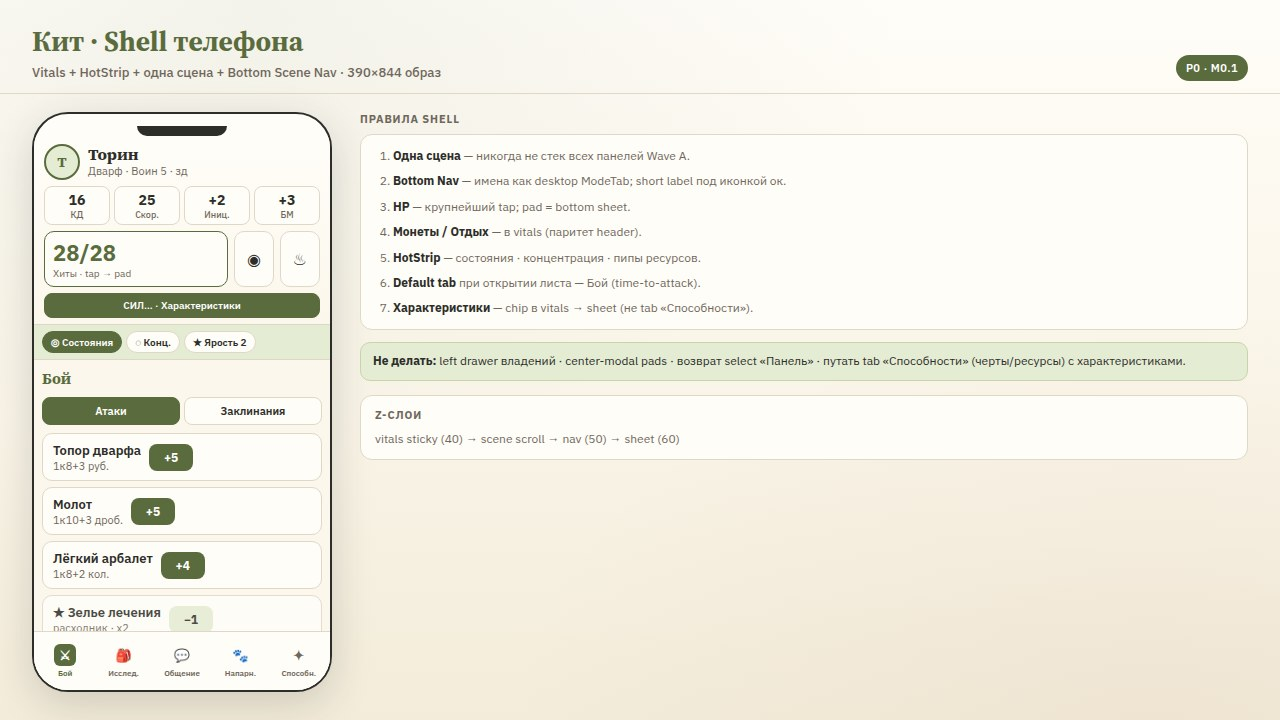
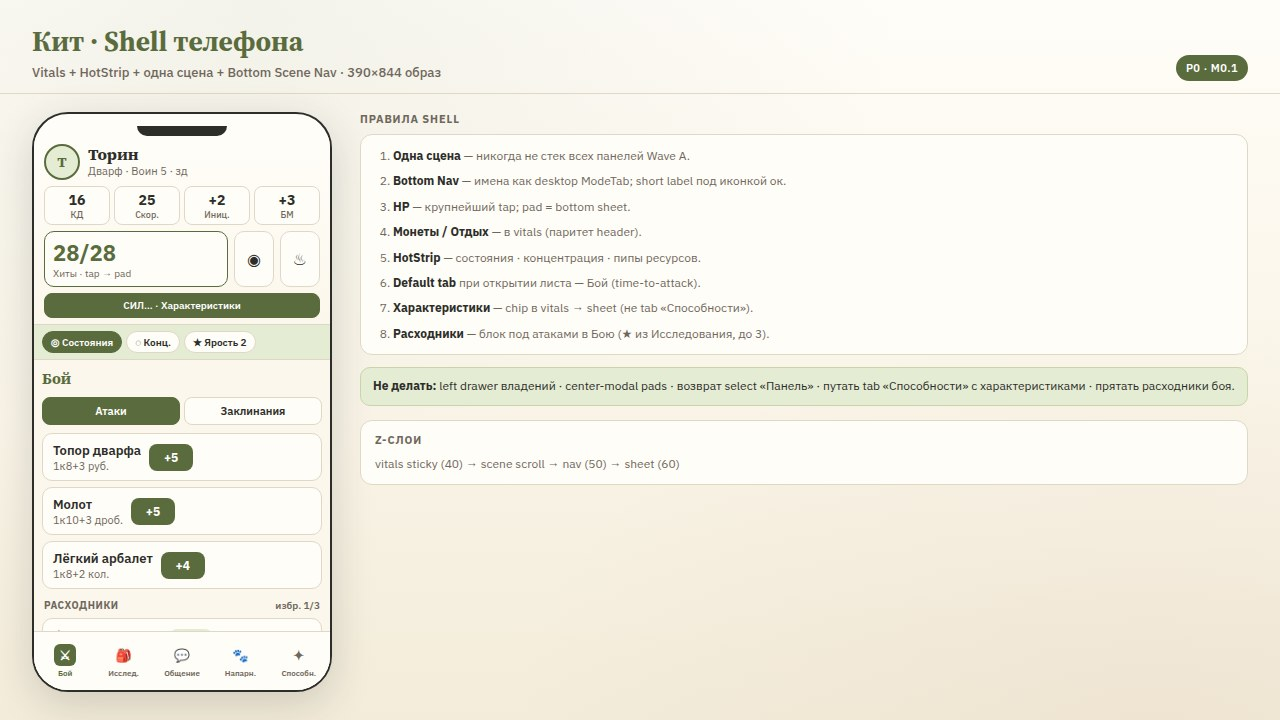
docs(mobile-kit): make combat consumables block explicit on boards
Label «Расходники» under attacks; ★ toggle shown in Explore; parity P0.

Changed region(s): [[0.2812, 0.4583, 0.9688, 0.6722], [0.0312, 0.825, 0.1875, 0.8861], [0.2188, 0.825, 0.25, 0.8556]]

diff --git a/docs/ui-kit-mobile/boards/_render/boards.html b/docs/ui-kit-mobile/boards/_render/boards.html
@@ -386,7 +386,10 @@
           <div class="att"><div><div class="name">Топор дварфа</div><div class="meta">1к8+3 руб.</div></div><div class="hit">+5</div></div>
           <div class="att"><div><div class="name">Молот</div><div class="meta">1к10+3 дроб.</div></div><div class="hit">+5</div></div>
           <div class="att"><div><div class="name">Лёгкий арбалет</div><div class="meta">1к8+2 кол.</div></div><div class="hit">+4</div></div>
-          <div class="att" style="opacity:.85"><div><div class="name">★ Зелье лечения</div><div class="meta">расходник · x2</div></div><div class="hit" style="background:var(--accent-soft);color:var(--ink)">−1</div></div>
+          <div style="font-size:10px;font-weight:700;letter-spacing:.06em;text-transform:uppercase;color:var(--muted);margin:4px 2px 0;display:flex;justify-content:space-between">
+            <span>Расходники</span><span style="font-weight:600;text-transform:none;letter-spacing:0">избр. 1/3</span>
+          </div>
+          <div class="att"><div><div class="name">★ Зелье лечения</div><div class="meta">потратить · x2</div></div><div class="hit" style="background:var(--accent-soft);color:var(--ink)">−1</div></div>
         </div>
         <div class="bnav">
           <div class="tab on"><div class="ico">⚔</div>Бой</div>
@@ -407,11 +410,12 @@
           <li style="margin-bottom:8px"><strong>Монеты / Отдых</strong> — в vitals (паритет header).</li>
           <li style="margin-bottom:8px"><strong>HotStrip</strong> — состояния · концентрация · пипы ресурсов.</li>
           <li style="margin-bottom:8px"><strong>Default tab</strong> при открытии листа — Бой (time-to-attack).</li>
-          <li><strong>Характеристики</strong> — chip в vitals → sheet (не tab «Способности»).</li>
+          <li style="margin-bottom:8px"><strong>Характеристики</strong> — chip в vitals → sheet (не tab «Способности»).</li>
+          <li><strong>Расходники</strong> — блок под атаками в Бою (★ из Исследования, до 3).</li>
         </ol>
       </div>
       <div class="callout">
-        <strong>Не делать:</strong> left drawer владений · center-modal pads · возврат select «Панель» · путать tab «Способности» (черты/ресурсы) с характеристиками.
+        <strong>Не делать:</strong> left drawer владений · center-modal pads · возврат select «Панель» · путать tab «Способности» с характеристиками · прятать расходники боя.
       </div>
       <div style="margin-top:14px" class="card">
         <p class="sec-label">Z-слои</p>
@@ -549,6 +553,7 @@
       <div class="mid">
         <div class="line-item"><span>Топор +5</span><strong>⚔</strong></div>
         <div class="line-item"><span>Молот +5</span><strong>⚔</strong></div>
+        <div style="font-size:8px;font-weight:700;color:var(--muted);margin:4px 0 2px">РАСХОДНИКИ · ★1/3</div>
         <div class="line-item"><span>★ Зелье x2</span><strong>−1</strong></div>
       </div>
       <div class="bot"><span class="on">Бой</span><span>Исслед.</span><span>Общ.</span><span>Нап.</span><span>Спос.</span></div>
@@ -557,6 +562,7 @@
       <div class="top">Исследование<br/><span style="font-weight:500;color:var(--muted)">Снаряжение</span></div>
       <div class="mid">
         <div class="line-item"><span>Кольчуга</span><span style="color:var(--accent)">надето</span></div>
+        <div class="line-item"><span>★ Зелье ×2</span><span style="color:var(--accent)">в бой</span></div>
         <div class="line-item"><span>Топор ×1</span><span>2ф</span></div>
         <div class="line-item"><span>Настройка 1/3</span><span>▸</span></div>
       </div>

diff --git a/docs/ui-kit-mobile/README.md b/docs/ui-kit-mobile/README.md
@@ -137,7 +137,7 @@ Icons: те же `IconConditions` / `IconConcentration` / `IconPouch`.
 
 | Tab id | Label (desktop `MODE_LABELS` после drop ЕЩЁ) | Primary сцена | Secondary |
 |--------|-----------------------------------------------|---------------|-----------|
-| `combat` | **Бой** | Атаки (combat density) | Заклинания — segmented |
+| `combat` | **Бой** | Атаки (combat density) + блок **Расходники** (★ из Исследования, spend −1) | Заклинания — segmented |
 | `explore` | **Исследование** | Инвентарь | Attunement из summary |
 | `social` | **Общение** | Тексты | — |
 | `companions` | **Напарники** | Companions | — |

diff --git a/docs/ui-kit-mobile/PARITY.md b/docs/ui-kit-mobile/PARITY.md
@@ -21,7 +21,7 @@
 | Концентрация chip / clear | 🟡 clear only | HotStrip | P0 |
 | Монеты CoinPad | ❌ | Vitals → CoinPad | P0 |
 | Атаки + бросок | 🟡 в стеке | Tab Бой | P0 |
-| Расходники ★ в бою | 🟡 | под атаками в Бою | P1 |
+| Расходники ★ в бою | 🟡 | Бой → блок «Расходники» под атаками; ★ в Исследовании (до 3) | P0 |
 | Заклинания Каст / upcast | 🟡 в стеке | Бой → Заклинания | P0 |
 | Гримуар / Подготовить / слоты | 🟡 | Книга sheet | P1 |
 | Инвентарь glance/expand | 🟡 | Tab Исследование | P0 |
